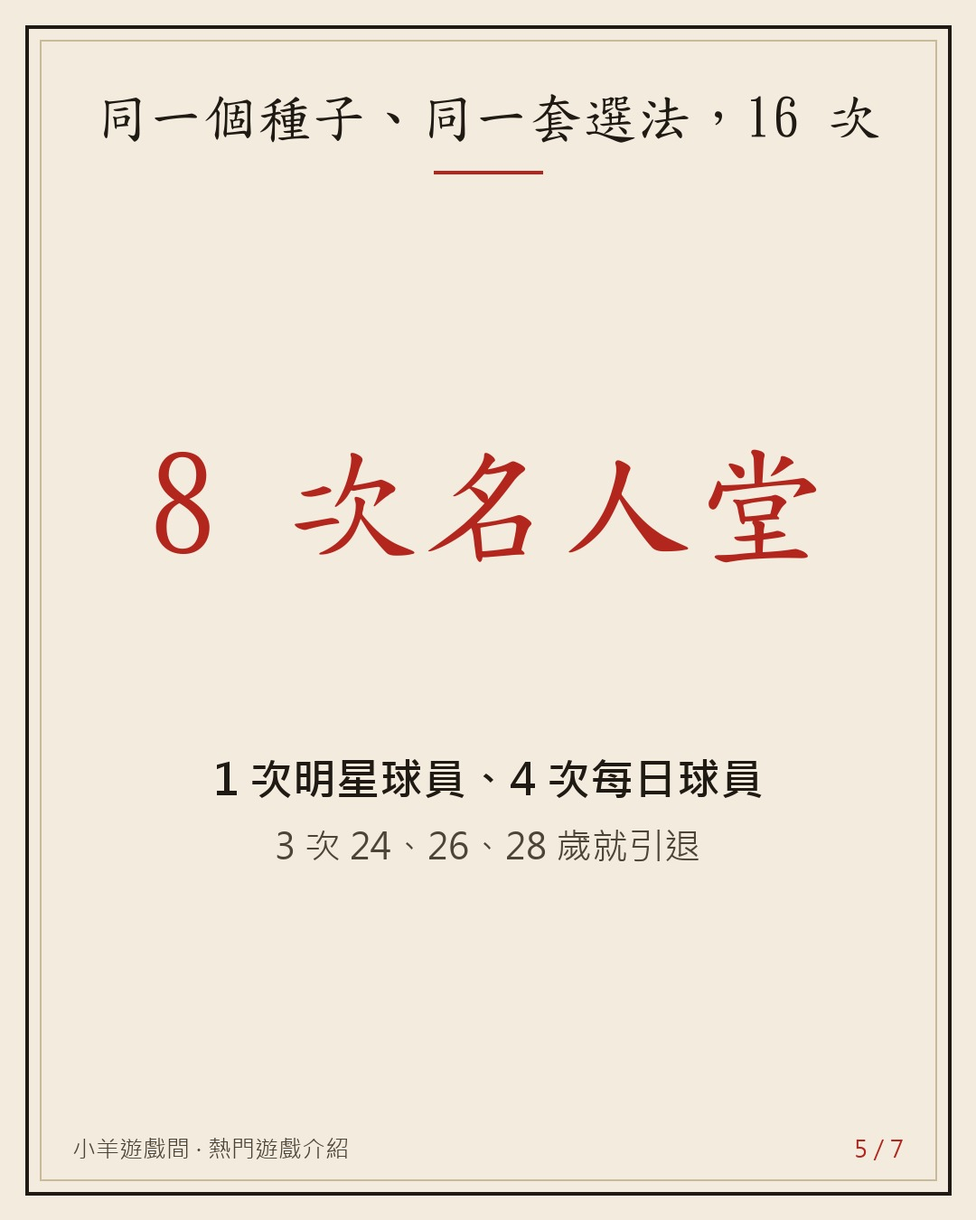
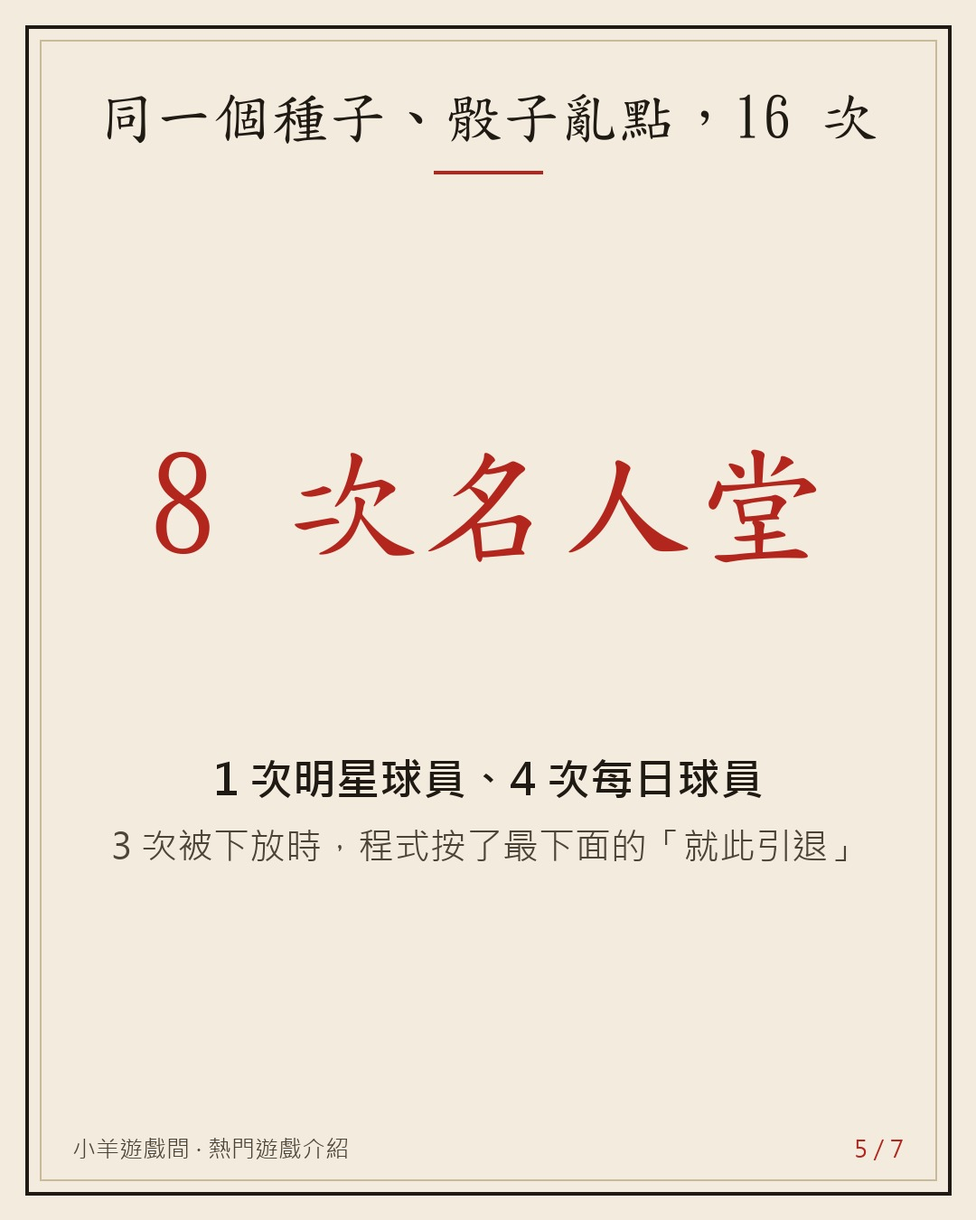
vault backup: 2026-11-02 19:22:02

diff --git a/Projects/auto promotion/posts/33.md b/Projects/auto promotion/posts/33.md
@@ -2,34 +2,35 @@
 id: 33
 type: popular
 game: 棒球人生模擬器 YaKyoLife（yakyolife.com，最先生 Mr.TheMost）
-topic: "棒球人生模擬器 YaKyoLife：台灣網頁棒球生涯模擬（最先生；PTT 棒球版 8/10 那篇 621 推、728 則留言；作者說「CODE 不是我敲的」、邏輯自己設計；公開 repo 8/7 建立、369 次提交、93 次標 Co-Authored-By: Claude）；我寫程式玩 22 生：同一個種子 2dpfsgns、外野手小羊 #18、每題都按最下面那個選項、骰子亂點，16 次 → 8 名人堂／1 明星／4 每日／3 次 24、26、28 歲引退；同種子同選法、骰子只點最上面兩項 → 22 歲放棄指名回業餘、23 歲合電引退、生涯 48 萬，兩人到 19 歲成績一模一樣；名人堂那生 22 歲大齡簽約去美國 1A、回中職 12 年 1,500 安 286 轟、MVP 6 次、1 億 2,302 萬；更新日誌：玩家回報一季 102 轟（紀錄 39，高國輝 2015）→ 量 8,200 季、加天花板；潘威倫量級只算明星球員、終老中職投手入選 0.0% → 4.8%；「受傷 10% 卻每次都中」→ 只把機率印出來、判定沒動 × 生在中國「一連串夭折是不是亂數壞了」"
-status: 草稿
+topic: "棒球人生模擬器 YaKyoLife：台灣網頁棒球生涯模擬（最先生；PTT 棒球版 8/10 那篇 621 推、728 則留言；作者說「CODE 不是我敲的」、邏輯自己設計；公開 repo 8/7 建立、369 次提交、93 次標 Co-Authored-By: Claude）；我寫程式玩 28 生：同一個種子 2dpfsgns、外野手小羊 #18、每題都按最下面那個選項、骰子亂點，16 次 → 8 名人堂／1 明星／4 每日／3 次 24、26、28 歲引退；同種子同選法、骰子只點最上面兩項 → 22 歲放棄指名回業餘、23 歲合電引退、生涯 48 萬，兩人到 19 歲成績一模一樣；名人堂那生 22 歲大齡簽約去美國 1A、回中職 12 年 1,500 安 286 轟、MVP 6 次、1 億 2,302 萬；更新日誌：玩家回報一季 102 轟（紀錄 39，高國輝 2015）→ 量 8,200 季、加天花板；潘威倫量級只算明星球員、終老中職投手入選 0.0% → 4.8%；「受傷 10% 卻每次都中」→ 只把機率印出來、判定沒動 × 生在中國「一連串夭折是不是亂數壞了」"
+status: 待發
 created: 2026-11-03 12:40
-score:
+score: 8.4
 ---
-# 同一個種子，我的棒球員一次進名人堂、一次 23 歲在業餘引退
+# 同一個開局，我的棒球員一次進名人堂、一次 23 歲在業餘引退
 
 ## Threads
 ### 1
-同一個種子，同一套選法。
+同一個種子，每一題都按最下面那個選項，只差骰子點在哪。
 一次，他進了中職名人堂，生涯薪水 1 億 2,302 萬。
 一次，他 23 歲在業餘隊引退，生涯薪水 48 萬，一場職棒都沒打過。
 
 兩次都叫小羊，背號 18，外野手。
-到 19 歲為止，兩個人的高中、大學成績一模一樣。
+到 19 歲為止，兩個人每一場大賽的名次都一樣。
 
-這是台灣網頁遊戲《棒球人生模擬器 YaKyoLife》，我寫程式替我玩了 22 個棒球人生。👇
+這是台灣網頁遊戲《棒球人生模擬器 YaKyoLife》，我寫程式替我玩了 28 個棒球人生，差最多的就是這兩個。👇
 ![[33/01.jpg]]
 ### 2
 《棒球人生模擬器》是最先生（Threads @mr.themost）做的，免費，瀏覽器打開就能玩。
 
 16 歲高一春天入隊 → 高中三年養成 → 選秀、旅日、旅美 → 國際賽 → 衰退、引退。
 每年擲骰子，自己把點數配到能力上；中間一直跳事件卡要你選。
+開局給你一組種子碼：同一個種子加同樣的選擇，就是同一個人生，可以丟給朋友重玩。
 
 8 月它在 PTT 棒球版爆紅，作者 8/10 那篇有 621 推、728 則留言。
-他在文裡說「CODE 不是我敲的」，但守位、聯盟評價、成績換算這些邏輯都是他自己設計的；他玩 OOTP 十多年、實況野球快 20 年。
-
-我去看了它公開的程式庫：8/7 建立，到 10/13 共 369 次提交，其中 93 次在提交訊息裡標著 Co-Authored-By: Claude。
+他說「CODE 不是我敲的」，但守位、聯盟評價、成績換算這些邏輯都是他自己設計的；他玩 OOTP 十多年、實況野球快 20 年。
+它的程式庫是公開的：8/7 建立，到 10/13 共 369 次提交，93 次標著 Co-Authored-By: Claude。
+（我的《生在中國》1,226 次提交裡，1,090 次也是這行 orz）
 ![[33/02.jpg]]
 ### 3
 它最有棒球味的設計：每個選項都寫成功率。
@@ -39,53 +40,45 @@ score:
 ・增加木棒打擊量（50%）
 ・先縮短揮棒求碰球（70%，加成最小）
 
-我讓程式每一題都按最下面那個（訓練事件裡就是最穩的那個），骰子隨便點。
+我讓程式每一題都按最下面那個（訓練事件裡就是最穩的那個），骰子亂點。
+種子一樣、選擇一樣就是同一個人生，所以下面的差別全在骰子。
 同一個種子 2dpfsgns 跑 16 次：
-8 次名人堂、1 次明星球員、4 次每日球員，
-3 次 24、26、28 歲就引退了。
+8 次名人堂、1 次明星球員、4 次每日球員（結算分五級：名人堂、明星、每日、邊緣、一頁過客）。
+另外 3 次，24、26、28 歲被下放或沒人要的時候，最下面那個選項是「就此引退」。
+我的程式就按了。
 ![[33/03.jpg]]
+![[33/05.jpg]]
 ### 4
-最戲劇的是另一次。
-選法完全一樣，我只改一件事：骰子全點在最上面兩項能力（體力、Contact）。
+最戲劇的是另一次：骰子全點在最上面兩項能力（體力、Contact），其他照舊。
 
-19 歲之前，他跟名人堂那個小羊一模一樣。
-20 歲大學成績開始差一點。
-22 歲，名人堂那個拿到美國大齡簽約，去 1A 打一年、回中職 12 年：1,500 安、286 轟、6 座 MVP。
-這個只拿到中職指名；最下面那個選項是「放棄本次指名，明年重新參加選秀」。
-我的程式按了。
-23 歲，合電，引退。
+19 歲之前，兩個小羊每一場大賽的名次都一樣。
+20 歲，大學成績開始差一點。
+22 歲那一題，名人堂那個的最下面一個選項是「旅美大齡底薪簽約」，程式按了：去 1A 一年、回中職 12 年，1,500 安、286 轟、6 座 MVP。
+這個只拿到中職指名，最下面一個是「放棄本次指名」。程式也按了。
+23 歲在業餘的合電隊，最下面那個變成「高掛球鞋」。程式又按了。
 
-遊戲最後一句寫：「離開球場的人生，也是人生。小羊，辛苦了。」 orz
+遊戲最後一句寫：「離開球場的人生，也是人生。小羊，辛苦了。」
+
+（另一個亂按的捕手更妙：連 4 年總冠軍、28 歲進明星賽，程式替他拒絕 13 年 7,462 萬的長約退休。引退串有一則：「欸這誰？……查了一下，原來真的打過職業喔」XD）
 ![[33/04.jpg]]
 ### 5
-其他幾生也很有畫面：
-・每題都按最上面那個（最拚的）投手：生涯 8 次大傷、1 次 Tommy John，最後 7 年換了 7 個東家
-・隨便亂按的捕手：連 4 年總冠軍、28 歲進明星賽，然後我的程式拒絕一份 13 年 7,462 萬的長約，宣布引退
-
-那位捕手的引退串第一則：
-「欸這誰？……查了一下，原來真的打過職業喔」
-![[33/05.jpg]]
-### 6
 我最喜歡的是它的更新日誌，作者把玩家回報一條一條量給你看。
 
 玩家說中職一季打出 102 轟。中職紀錄是 39 轟（高國輝 2015）。
-他跑了 8,200 個中職球季，發現不是罕見特例，最高 99 轟，於是每個聯盟加一條天花板：之後單季最多 62。
+他跑了 8,200 個中職球季，發現不是罕見特例，最高 99 轟；每個聯盟加一條天花板，再量一次，最高 62 轟。
 
-玩家說名人堂太難。他拿潘威倫、彭政閔等級的生涯去算，舊版都只算「明星球員」；整段留在中職的投手，入選率是 0.0%。改完變 4.8%。
+玩家說中職名人堂太難進。他拿潘威倫、彭政閔等級的生涯去算，舊版都只算「明星球員」；整段留在中職的投手，入選率 0.0%，改完 4.8%。
 
-玩家說「受傷機率只有 10% 卻每次都中」。他沒改機率，只把機率印在受傷那張卡上。
-另一段他寫：量不出來的東西，不該用改數字來「修」。
+玩家說「受傷機率只有 10% 卻每次都中」。他查了：玩家看到的 10% 是健康那季的數字，受傷那季的機率常常更高。判定沒動，只把那季的機率也印出來。
 ![[33/06.jpg]]
-### 7
-看到「10% 卻每次都中」我笑出來，因為我也收過一模一樣的信。
+### 6
+看到「10% 卻每次都中」，我很有感，因為我也收過很像的問題。
 
 我做《生在中國》，投胎到中國歷史活完一輩子。玩家問：「一連串的夭折，是不是亂數沒寫好？」
-我也是先量了 2 萬世，亂數沒壞，再決定要改什麼。
-
-人對機率的感覺，跟機率本身，常常是兩回事。
-做這種遊戲，最常改的不是數字，是讓玩家看得到數字。
+我也是先量了 2 萬世：亂數沒壞。但我最後還是改了，把 5 歲前就走的人生從 39% 調到 34%。
+他沒動判定，只把機率印出來；我動了機率。兩個做法不一樣，但都是量完才決定。
 ![[33/07.jpg]]
-### 8
+### 7
 你在《棒球人生模擬器》養出過什麼樣的球員？名人堂、一頁過客，還是 23 歲回業餘？
 種子碼貼給我，我拿去跑跑看 XD
 
@@ -95,12 +88,12 @@ score:
 投胎到中國歷史，你能活幾歲？👉 https://games.csiesheep.com/china_life/
 
 ## Instagram
-同一個種子、同一套選法：一次進中職名人堂，生涯 1 億 2,302 萬；一次 23 歲在業餘隊引退，生涯 48 萬。⚾
+同一個人生開局，只差骰子點哪：一個進中職名人堂、賺 1 億 2,302 萬，一個 23 歲在業餘引退、48 萬。⚾
 
-《棒球人生模擬器 YaKyoLife》是最先生（@mr.themost）做的台灣網頁棒球生涯模擬，8 月在 PTT 棒球版爆紅。
-我寫程式替我玩了 22 生：
-・同一個種子、每題按最下面的選項、骰子亂點，16 次裡 8 次名人堂、3 次不到 30 歲就引退
-・只把骰子改成全點體力和 Contact：22 歲放棄指名回業餘
+《棒球人生模擬器 YaKyoLife》是最先生（@mr.themost）做的台灣網頁棒球生涯模擬，8 月在 PTT 棒球版爆紅；同一個種子加同樣的選擇，就是同一個人生。
+我寫程式替我玩了 28 生：
+・同一個種子、每題按最下面的選項、骰子亂點，16 次裡 8 次名人堂，也有 3 次不到 30 歲就按了「就此引退」
+・骰子改成全點體力和 Contact：22 歲放棄指名回業餘
 ・玩家回報一季 102 轟（紀錄 39），作者量了 8,200 個球季才加天花板
 
 你養出過什麼球員？👇
@@ -112,34 +105,33 @@ score:
 卡片：![[33/01.jpg]] ![[33/02.jpg]] ![[33/03.jpg]] ![[33/04.jpg]] ![[33/05.jpg]] ![[33/06.jpg]] ![[33/07.jpg]]
 
 ## Facebook
-⚾ 同一個種子，我的棒球員一次進名人堂、一次 23 歲在業餘引退
+⚾ 同一個開局，我的棒球員一次進名人堂、一次 23 歲在業餘引退
 
-同一個種子，同一套選法。一次，他進了中職名人堂，生涯薪水 1 億 2,302 萬；一次，他 23 歲在業餘隊引退，生涯薪水 48 萬，一場職棒都沒打過。兩次都叫小羊，背號 18，外野手；到 19 歲為止，兩個人的高中、大學成績一模一樣。
+同一個種子，每一題都按最下面那個選項，只差骰子點在哪。一次，他進了中職名人堂，生涯薪水 1 億 2,302 萬；一次，他 23 歲在業餘隊引退，生涯薪水 48 萬，一場職棒都沒打過。兩次都叫小羊，背號 18，外野手；到 19 歲為止，兩個人每一場大賽的名次都一樣。
 
-這是台灣網頁遊戲《棒球人生模擬器 YaKyoLife》，我寫程式替我玩了 22 個棒球人生。
+這是台灣網頁遊戲《棒球人生模擬器 YaKyoLife》，我寫程式替我玩了 28 個棒球人生。
 
 🎮 這是什麼遊戲
-最先生（Threads @mr.themost）做的，免費，瀏覽器打開就能玩。16 歲高一春天入隊 → 高中三年養成 → 選秀、旅日、旅美 → 國際賽 → 衰退、引退。每年擲骰子，自己把點數配到能力上；中間一直跳事件卡要你選，每個選項都寫成功率（35%／50%／70%，越穩的加成越小）。開始前有一組「世界種子」，同一個種子加同樣的選擇就是同一個人生，可以把種子碼丟給朋友。
-8 月它在 PTT 棒球版爆紅，作者 8/10 那篇有 621 推、728 則留言。他在文裡說「CODE 不是我敲的」，但守位、聯盟評價、成績換算這些邏輯都是他自己設計的；他玩 OOTP 十多年、實況野球快 20 年，還說「棒球是體驗失敗的運動」。
-我去看了它公開的程式庫：8/7 建立，到 10/13 共 369 次提交（8 月就有 311 次），其中 93 次在提交訊息裡標著 Co-Authored-By: Claude。
+最先生（Threads @mr.themost）做的，免費，瀏覽器打開就能玩。16 歲高一春天入隊 → 高中三年養成 → 選秀、旅日、旅美 → 國際賽 → 衰退、引退。每年擲骰子，自己把點數配到能力上；中間一直跳事件卡要你選，每個選項都寫成功率（35%／50%／70%，越穩的加成越小）。開局給你一組種子碼：同一個種子加同樣的選擇，就是同一個人生，可以丟給朋友重玩。
+8 月它在 PTT 棒球版爆紅，作者 8/10 那篇有 621 推、728 則留言。他說「CODE 不是我敲的」，但守位、聯盟評價、成績換算這些邏輯都是他自己設計的；他玩 OOTP 十多年、實況野球快 20 年，還說「棒球是體驗失敗的運動」。
+它的程式庫是公開的：8/7 建立，到 10/13 共 369 次提交（8 月就有 311 次），93 次標著 Co-Authored-By: Claude。（我的《生在中國》1,226 次提交裡，1,090 次也是這行 orz）
 
-🤖 我寫程式玩了 22 生
-我讓程式每一題都按最下面那個選項（訓練事件裡就是成功率最高、加成最小的那個），骰子隨便點。同一個種子 2dpfsgns 跑 16 次：8 次名人堂、1 次明星球員、4 次每日球員，3 次 24、26、28 歲就引退了。
+🤖 我寫程式玩了 28 生
+我讓程式每一題都按最下面那個選項（訓練事件裡就是成功率最高、加成最小的那個），骰子亂點。種子一樣、選擇一樣就是同一個人生，所以結果的差別全在骰子。同一個種子 2dpfsgns 跑 16 次：8 次名人堂、1 次明星球員、4 次每日球員（遊戲結算分五級：名人堂、明星、每日、邊緣、一頁過客）；另外 3 次，24、26、28 歲被下放或沒人要的時候，最下面那個選項是「就此引退」，我的程式就按了。
 （這個遊戲沒有回傳統計，我跑再多次也不會灌到作者的數字。）
 
-最戲劇的是另一次。選法完全一樣，我只改一件事：骰子全點在最上面兩項能力（體力、Contact）。
-19 歲之前，他跟名人堂那個小羊一模一樣；20 歲大學成績開始差一點。22 歲，名人堂那個拿到美國大齡簽約，去 1A 打一年、回中職 12 年：1,500 安、286 轟、打擊率 .313、6 座 MVP，第 7 年以 78.0% 進名人堂。這個只拿到中職指名，而最下面那個選項是「放棄本次指名，明年重新參加選秀」——我的程式按了。23 歲，合電，引退。遊戲最後一句寫：「離開球場的人生，也是人生。小羊，辛苦了。」 orz
+最戲劇的是另一次：骰子全點在最上面兩項能力（體力、Contact），其他照舊。19 歲之前，兩個小羊每一場大賽的名次都一樣；20 歲大學成績開始差一點。22 歲那一題，名人堂那個的最下面一個選項是「旅美大齡底薪簽約」，程式按了：去 1A 一年、回中職 12 年，打擊率 .313、1,500 安、286 轟、6 座 MVP，第 7 年以 78.0% 進名人堂。這個只拿到中職指名，最下面一個是「放棄本次指名」，程式也按了；23 歲在業餘的合電隊，最下面那個變成「高掛球鞋」，程式又按了。遊戲最後一句寫：「離開球場的人生，也是人生。小羊，辛苦了。」
 
-其他幾生也很有畫面：每題都按最上面那個（最拚的）投手，生涯 8 次大傷、1 次 Tommy John，最後 7 年換了 7 個東家；隨便亂按的捕手，連 4 年總冠軍、28 歲進明星賽，然後我的程式拒絕一份 13 年 7,462 萬的長約，宣布引退。他的引退串第一則：「欸這誰？……查了一下，原來真的打過職業喔」
+其他幾生也很有畫面：每題都按最上面那個（最拚的）投手，生涯 8 次大傷、1 次 Tommy John，最後 7 年年年換隊；隨便亂按的捕手，連 4 年總冠軍、28 歲進明星賽，然後我的程式拒絕一份 13 年 7,462 萬的長約，宣布引退。他的引退串裡有一則：「欸這誰？……查了一下，原來真的打過職業喔」
 
 📋 我最喜歡的：更新日誌
 作者把玩家回報一條一條量給你看。
-・玩家說中職一季打出 102 轟。中職紀錄是 39 轟（高國輝 2015）。他跑了 8,200 個中職球季，發現不是罕見特例，最高 99 轟，於是每個聯盟加一條天花板：之後單季最多 62。
-・玩家說名人堂太難。他拿潘威倫、彭政閔等級的生涯去算，舊版都只算「明星球員」；整段留在中職的投手，入選率是 0.0%。改完變 4.8%。
-・玩家說「受傷機率只有 10% 卻每次都中」。他沒改機率，只把機率印在受傷那張卡上。另一段他寫：量不出來的東西，不該用改數字來「修」。
+・玩家說中職一季打出 102 轟。中職紀錄是 39 轟（高國輝 2015）。他跑了 8,200 個中職球季，發現不是罕見特例，最高 99 轟；每個聯盟加一條天花板，再量一次，最高 62 轟。
+・玩家說中職名人堂太難進。他拿潘威倫、彭政閔等級的生涯去算，舊版都只算「明星球員」；整段留在中職的投手，入選率 0.0%，改完 4.8%。
+・玩家說「受傷機率只有 10% 卻每次都中」。他查了：玩家看到的 10% 是健康那季的數字，受傷那季的機率常常更高（年齡、玻璃人、事件卡自找的風險都會往上加）。判定沒動，只把那季的機率也印出來。另一段他寫：量不出來的東西，不該用改數字來「修」。
 
 🀄 我自己的遊戲
-看到「10% 卻每次都中」我笑出來，因為我也收過一模一樣的信。我做《生在中國》，投胎到中國歷史活完一輩子；玩家問：「一連串的夭折，是不是亂數沒寫好？」我也是先量了 2 萬世，亂數沒壞，再決定要改什麼。人對機率的感覺，跟機率本身，常常是兩回事；做這種遊戲，最常改的不是數字，是讓玩家看得到數字。
+看到「10% 卻每次都中」，我很有感，因為我也收過很像的問題。我做《生在中國》，投胎到中國歷史活完一輩子；玩家問：「一連串的夭折，是不是亂數沒寫好？」我也是先量了 2 萬世：亂數沒壞。但我最後還是改了，把 5 歲前就走的人生從 39% 調到 34%。他沒動判定，只把機率印出來；我動了機率。兩個做法不一樣，但都是量完才決定。
 
 你在《棒球人生模擬器》養出過什麼樣的球員？名人堂、一頁過客，還是 23 歲回業餘？種子碼貼給我，我拿去跑跑看 XD
 下一款爆紅的網頁遊戲，我一樣寫程式去玩、回來報告，想看就追蹤小羊遊戲間。
@@ -157,11 +149,16 @@ score:
 - https://www.pttweb.cc/bbs/Baseball/M.1786335159.A.460 （2026-11-03 讀取）— ja42022（最先生）2026/08/10 12:12「Re: [分享] 棒球人生模擬器」，621 推 3 噓、728 則留言；「雖然CODE不是我敲的」、邏輯自己設計；OOTP 十多年、實況野球快 20 年；「棒球是體驗失敗的運動」
 - https://abmedia.io/yakyolife-ai-vibe-coding-taiwan （鏈新聞 2026/8/11）— 〈Vibe Coding 也能做爆款遊戲？網友靠 AI 打造《棒球人生模擬器》爆紅〉
 - https://www.threads.com/@mr.themost （2026-11-03 未登入讀取）— 10/13 更新日誌 v2.0.12 貼文（明星賽、大巧不工配點、中職名人堂難度）
-- C:/Users/sheep/Pictures/auto_promotion/post_frames/33_yakyo/（play.mjs 與各次 result.json、截圖）— 我的 22 生（全部取名小羊 #18）：c1–c6（六種守位／選法，c2 每題最上面投手：大傷 8、TJ 1、2044–2050 每年不同球隊、中職邊緣球員；c3 亂按捕手：中職總冠軍 2035–2038、2038 明星賽、拒絕 13 年 7,462 萬長約宣布引退、中職一頁過客、引退串第一則「欸這誰？……」；c5 每題最下面外野手：11 座 MVP、名人堂）；r1–r15 + c5 = 種子 2dpfsgns 每題最下面、骰子亂點 16 次（名人堂 c5 r1 r2 r4 r7 r10 r11 r14；明星 r12；每日 r6 r8 r9 r15；24 歲 r5、26 歲 r3、28 歲 r13 引退）；r7 結算圖（22 歲 Senior Sign 星港火箭 1A、中職 12 年 1,500 安 286 轟 .313、MVP ×6、第 7 年 78.0% 入選、1 億 2,302 萬）；f1 同種子同選法、骰子只點最上面兩項（體力、Contact）：2029 前業餘成績與 r7 相同、2030 起不同，22 歲「重返業餘，再拚一年 放棄本次指名」、23 歲合電引退、生涯 48 萬、結尾「離開球場的人生，也是人生。小羊，辛苦了。」；s1f–s3l 是另外 6 次對照（沒寫進貼文）
-- posts/7.md — 生在中國玩家回報「一連串的夭折，是不是亂數沒寫好？」，量 2 萬世亂數沒壞
+- C:/Users/sheep/Pictures/auto_promotion/post_frames/33_yakyo/（play.mjs 與各次 result.json、截圖）— 我的 28 生（全部取名小羊 #18）：c1–c6（六種守位／選法，c2 每題最上面投手：大傷 8、TJ 1、2044–2050 每年不同球隊、中職邊緣球員；c3 亂按捕手：中職總冠軍 2035–2038、2038 明星賽、拒絕 13 年 7,462 萬長約宣布引退、中職一頁過客、引退串第一則「欸這誰？……」；c5 每題最下面外野手：11 座 MVP、名人堂）；r1–r15 + c5 = 種子 2dpfsgns 每題最下面、骰子亂點 16 次（名人堂 c5 r1 r2 r4 r7 r10 r11 r14；明星 r12；每日 r6 r8 r9 r15；24 歲 r5、26 歲 r3、28 歲 r13 引退）；r7 結算圖（22 歲 Senior Sign 星港火箭 1A、中職 12 年 1,500 安 286 轟 .313、MVP ×6、第 7 年 78.0% 入選、1 億 2,302 萬）；f1 同種子同選法、骰子只點最上面兩項（體力、Contact）：2029 前業餘成績與 r7 相同、2030 起不同，22 歲「重返業餘，再拚一年 放棄本次指名」、23 歲按最下面的「高掛球鞋」在合電引退、生涯 48 萬、結尾「離開球場的人生，也是人生。小羊，辛苦了。」；s1f–s3l 是另外 6 次對照（沒寫進貼文）
+- C:/Users/sheep/code/china_life git log（2026-11-03）— 1,226 次提交裡 1,090 次標 Co-Authored-By: Claude
+- CHANGELOG 受傷段：受傷那季的實際機率往往比健康回報印的更高（年齡、玻璃人、事件卡自找風險）；新版天花板中職 63（漸近線），8,000 季重量最高 62
+- posts/7.md — 生在中國玩家回報「一連串的夭折，是不是亂數沒寫好？」，量 2 萬世亂數沒壞；之後改口調整：5 歲前每年存活機率開 0.85 次方，5 歲前走的 38.9% → 34.3%（只調玩家本人，孩子照史料 37.9%）
 
 ## 打磨紀錄
 | 回合 | 1 | 2 | 3 | 4 | 5 | 6 | 7 | 8 | 9 | 10 | 平均 | 主要修改 |
 |---|---|---|---|---|---|---|---|---|---|---|---|---|
+| 1 | 7 | 9 | 8 | 7 | 8 | 6 | 8 | 8 | 7 | 8 | 7.6 | 第 6 項 6 分：開頭「同一套選法」改成「每題按最下面、只差骰子點在哪」（遊戲本身是確定性的）；「一模一樣」改成大賽名次一樣；受傷 10% 改成照日誌原意（受傷那季機率常更高，只把機率印出來）；62 轟改「再量一次最高 62」；名人堂寫明中職；解釋種子和五級評價；寫出 22 歲兩人最下面選項不同；「笑出來」改「很有感」；投手段併掉 |
+| 2 | 8 | 9 | 8 | 8 | 8 | 6 | 8 | 8 | 7 | 9 | 7.9 | 第 6 項 6 分：橋跟 #7 矛盾（生在中國量完確實改了機率 38.9%→34.3%）→ 改成「他沒動判定只印出機率，我動了機率，都是量完才決定」；捕手括號移到第 4 則；「程式又按了」；提交數字 1,226／1,090 |
+| 3 | 8 | 9 | 9 | 8 | 8 | 9 | 8 | 8 | 8 | 9 | 8.4 | 達標；照評審小修：FB 補「程式又按了」、第 3 則加第 5 張卡、第 1 則加「差最多的就是這兩個」 |
 
 ## 發文紀錄

diff --git a/Projects/auto promotion/posts/topics.md b/Projects/auto promotion/posts/topics.md
@@ -18,5 +18,6 @@
 | 11 | 《蛋包飯模擬器》（オムライスシミュレーター，よりみちゲーム） | 清單用完後自選（2026-10-31 producer）：Threads 10 月料理小遊戲潮，udn 10/23、DailyView 都列入；日本個人網站 10/17 公開、只有日文，頁面瀏覽 244 萬（站上第二名 81 萬） | [遊戲](https://yorimichi-games.com/omurice/)、[udn](https://tech.udn.com/tech/amp/story/123154/9832939)、[DailyView](https://dailyview.tw/popular/detail/33855)（沒有來源說是 AI 做的，貼文不寫 AI） | #26 |
 | 12 | 《たこ焼き作り》（章魚燒，ぴこぴこゲーム） | 清單用完後自選（2026-11-01 producer）：Threads 10 月網頁小遊戲潮，新假期 10/21、造咖、JUKSY 10/22 都列入；日本個人作者ぴこぴこP，站上計數 77 萬（同一人一天算一次），同站還有可麗餅 61 萬、麻辣湯 36 萬 | [遊戲](https://piko2game.com/takoyaki/)、[作者頁](https://piko2game.com/about/)、[造咖](https://cava.tw/topic/news/267918)、[JUKSY](https://chill.juksy.com/article/153424)（沒有來源說是 AI 做的，貼文不寫 AI；同站可麗餅、麻辣湯可當之後的題目） | #28 |
 | 13 | 《生在台灣》（taiwanese-simulator.tw，PD @lieroliu） | 清單用完後自選（2026-11-01 晚 producer）：台灣網頁人生模擬，挑 1961–2010 一年依統計投胎；受《80億分之1》啟發，和生在中國同一類；中時 10/23 列入 Threads 爆紅清單，作者寫 4 天開發 5 天上線、20 萬人 | [遊戲](https://taiwanese-simulator.tw/)、[作者 Threads](https://www.threads.com/@lieroliu)、[中時](https://www.chinatimes.com/realtimenews/20261023000014-260404)（沒有來源說是 AI 做的，貼文不寫 AI） | #30 |
+| 14 | 《棒球人生模擬器 YaKyoLife》（yakyolife.com，最先生 Mr.TheMost） | 清單用完後自選（2026-11-03 producer）：台灣網頁棒球生涯模擬，8 月 PTT 棒球版爆紅（作者 8/10 那篇 621 推、728 則留言），作者說程式不是自己敲的、邏輯自己設計；公開 repo 93 次提交標 Co-Authored-By: Claude；種子化人生，和生在中國同一類 | [遊戲](https://www.yakyolife.com/)、[GitHub](https://github.com/leoggcat/yakyulife)、[PTT](https://www.pttweb.cc/bbs/Baseball/M.1786335159.A.460)、[鏈新聞](https://abmedia.io/yakyolife-ai-vibe-coding-taiwan)（爆紅在 8 月，不是最近幾週；10/13 後沒有更新） | #33 |
 
 不選：AI 反編譯、移植的商業遊戲網頁版（Halo、GTA Vice City 等，有著作權問題）；《傳說對決》（小羊不要）。

diff --git a/Projects/auto promotion/2026-11-03.md b/Projects/auto promotion/2026-11-03.md
@@ -78,3 +78,5 @@
 | 10:29 | promo-producer | 開始 | 存貨：分享卡 2、生在中國 Reel 3、鬼唱詩 待發 4／待審 1／要修改 0、貼文 熱門 3＋日記 4；本輪寫一篇熱門遊戲介紹（題目清單已用完，自找當紅遊戲） |  |
 | 10:30 | promo-producer | 進度 | 選題：《棒球人生模擬器 YaKyoLife》（最先生 Mr.TheMost，台灣，AI 寫程式的棒球人生模擬，種子碼可分享）→ 貼文 #33 |  |
 | 11:07 | games-stats-hourly | 完成 | 生在中國 76 局 16 人（昨同時 177 局 30 人，局數 -57%）；蓋牌投票箱 0 局 0 人（昨同時 0） |  |
+| 11:17 | promo-producer | 進度 | #33 棒球人生模擬器：程式玩 28 生（同種子 16 次 8 名人堂；同選法只改配點 → 23 歲業餘引退 48 萬）、7 張卡片已出、三平台文字寫好，送評審第 1 輪 |  |
+| 11:21 | promo-producer | 完成 | #33 熱門遊戲介紹《棒球人生模擬器 YaKyoLife》待發（posts/33.md，7 張卡，評審 3 輪 7.6→7.9→8.4）；存貨：分享卡 2、生在中國 Reel 3、鬼唱詩 待發 4／待審 1／要修改 0、貼文 熱門 4＋日記 4 |  |
